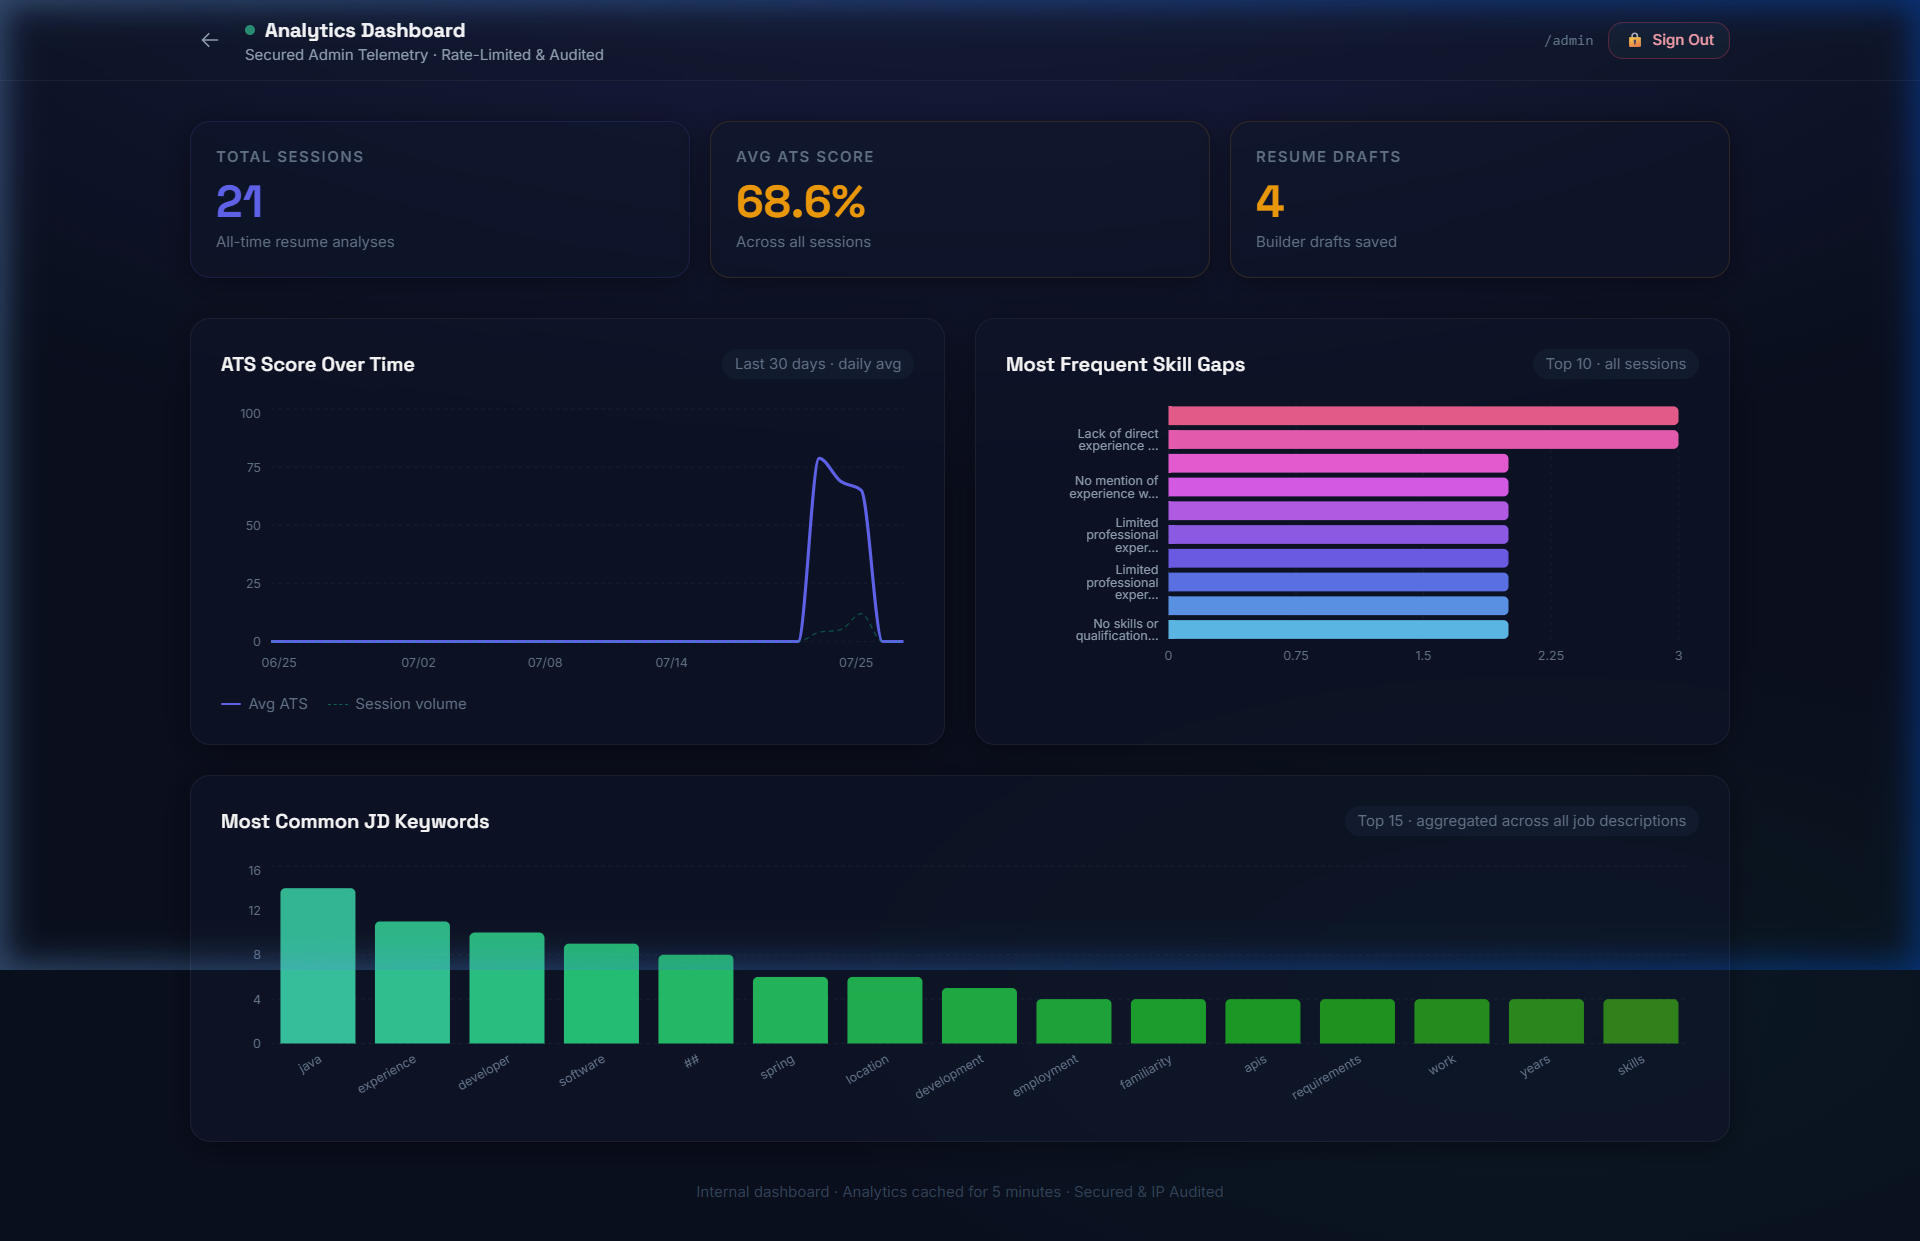
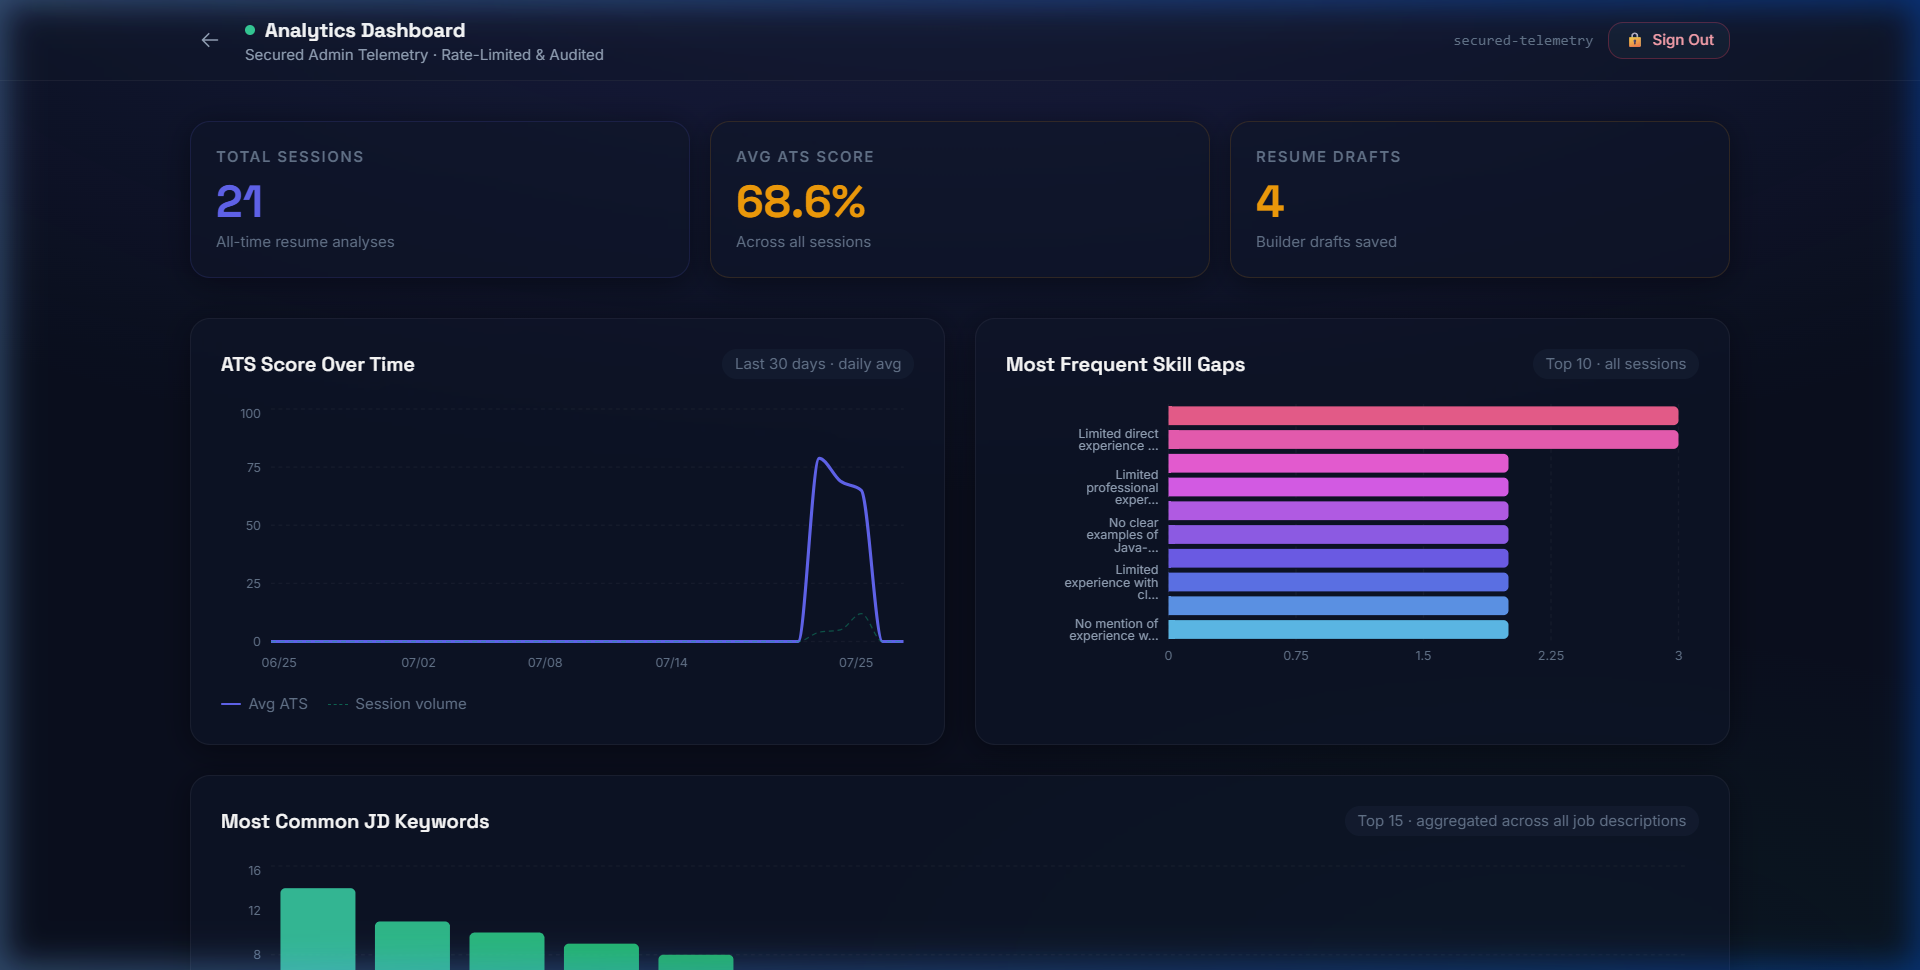
docs: update admin dashboard screenshot to use secured-telemetry header

diff --git a/frontend/src/pages/AdminPage.jsx b/frontend/src/pages/AdminPage.jsx
@@ -325,7 +325,7 @@ export default function AdminPage() {
           </div>
           
           <div className="flex items-center gap-3">
-            <span className="text-xs font-mono text-slate-500 hidden md:block">/admin</span>
+            <span className="text-xs font-mono text-slate-500 hidden md:block">secured-telemetry</span>
             <button
               onClick={handleLogout}
               className="btn-secondary text-xs py-1.5 px-3 text-rose-300 border-rose-500/30 hover:bg-rose-500/10 flex items-center gap-1.5"
